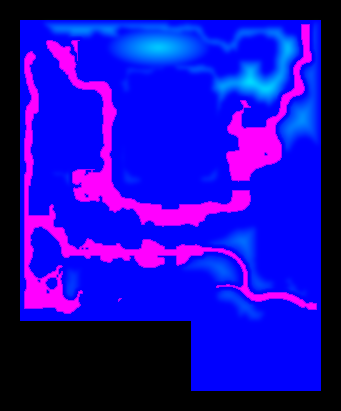
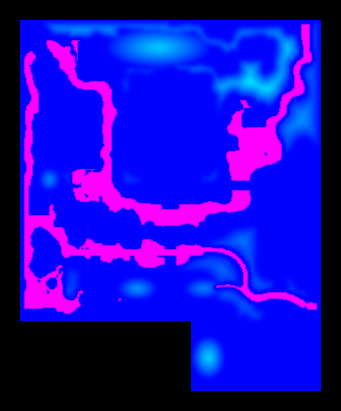
按原著补山：翠嶂两翼土山、怡红院前“大山阻路”、稻香村前“青山斜阻”
- 第十七回“一带翠嶂挡在前面”：翠嶂石山两翼接土山（约 5–6 米），中轴园路翻过西翼，山脊上往北俯看沁芳亭
- 第十七回出怡红院“忽见大山阻路”：正门与怡红院之间补一座约 8.5 米的大山，园路从山脚绕过
- 第十七回往稻香村“倏尔青山斜阻，转过山怀中”、第四十九回芦雪广“傍山临水”：两处之间补一座山
- 新山都在院落占地 + 8 米过渡带之外，跨水与穿院检查结果不变；MOUNDS 同步加入，山上布石种松

Claude-Session: https://claude.ai/code/session_01E2iHKmrj6xPgYJPAfTwDDD

diff --git a/index.html b/index.html
@@ -284,7 +284,8 @@ function inGarden(x,z,m=0){return (Math.abs(x)<=150-m&&z>=-180+m&&z<=120-m)||(x>
 /* 岸线点：[x, z, 指向岸上的单位法向 nx, nz]，每 2 米一个 */
 const SHORE=[];for(let z=-178;z<=188;z+=2)for(let x=-148;x<=148;x+=2){if(!isWet(x,z))continue;let nx=0,nz=0;for(const [a,b] of[[2,0],[-2,0],[0,2],[0,-2]])if(!isWet(x+a,z+b)){nx+=a;nz+=b;}const l=Math.hypot(nx,nz);if(l>0)SHORE.push([x,z,nx/l,nz/l]);}
 /* 山：给布石、种树用的山头（x, z, 高, 半径） */
-const MOUNDS=[[-12,-153,10,22],[80,-129,8,16],[128,-80,6,12],[66,70,5,12],[96,96,4,10],[-112,88,3,8]];
+const MOUNDS=[[-12,-153,10,22],[80,-129,8,16],[128,-80,6,12],[66,70,5,12],[96,96,4,10],[-112,88,3,8],
+ [-33,88,6,12],[33,88,5,11],[38,157,8,14],[-121,-21,5,9]];// 后四座按原著补：翠嶂两翼、“大山阻路”、稻香村前“青山斜阻”（见 tools/layout/make_layout.py）
 function natural(x,z){
  let h=0.6+0.16*Math.sin(x*0.045+1.3)*Math.cos(z*0.05-0.4)+0.08*Math.sin(x*0.13+z*0.11);
  h+=layAt(LAY.h,x,z);

diff --git a/tools/layout/make_layout.py b/tools/layout/make_layout.py
@@ -66,7 +66,16 @@ for i in range(1, n + 1):
     d = nd.distance_transform_edt(reg); peak = float(np.clip(np.sqrt(area) / 7, 2.5, HILL_MAX))
     Hs = np.maximum(Hs, peak * np.power(np.clip(d / max(d.max(), 1), 0, 1), 0.75))
 # 参考图上贴着园墙、等高线没闭合的山，直接按位置补：中心 x, z，半径 rx, rz，高（米）
-EXTRA_HILLS = [(-12, -153, 52, 20, 10.0)]
+EXTRA_HILLS = [(-12, -153, 52, 20, 10.0),
+# 以下按原著补的山（院落占地 + 8 米过渡带内会被网页端压平，所以都放在占地之外）
+# 第十七回 进门“只见一带翠嶂挡在前面”：翠嶂石山（模型在 x ±20）两翼接土山，连成一带；
+#   中轴园路从西翼翻过去，到山脊上“俯而视之”，往北正好望见沁芳亭、石桥
+    (-33, 88, 19, 11, 7.5), (33, 88, 19, 10, 6.5),
+# 第十七回 出怡红院往回走“忽见大山阻路，众人都道迷了路了”，“由山脚边忽一转”就是大门前大路
+    (38, 157, 16, 21, 10.5),
+# 第十七回 往稻香村“倏尔青山斜阻，转过山怀中，隐隐露出一带黄泥筑就矮墙”；
+#   第四十九回 芦雪广“就在傍山临水河滩之上”：两处之间这座山，园路从山脚东边绕过去
+    (-121, -21, 10, 11, 7.0)]
 for cx, cz, rx, rz, pk in EXTRA_HILLS:
     e = np.hypot((XX - cx) / rx, (ZZ - cz) / rz)
     Hs = np.maximum(Hs, pk * np.clip(1 - e, 0, 1) ** 0.8 * garden)
